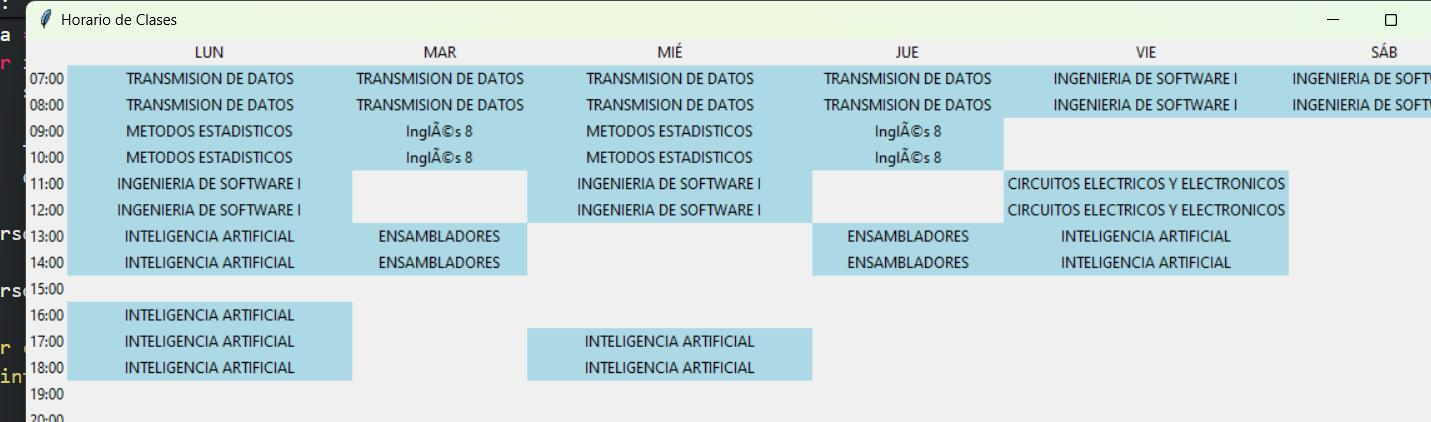
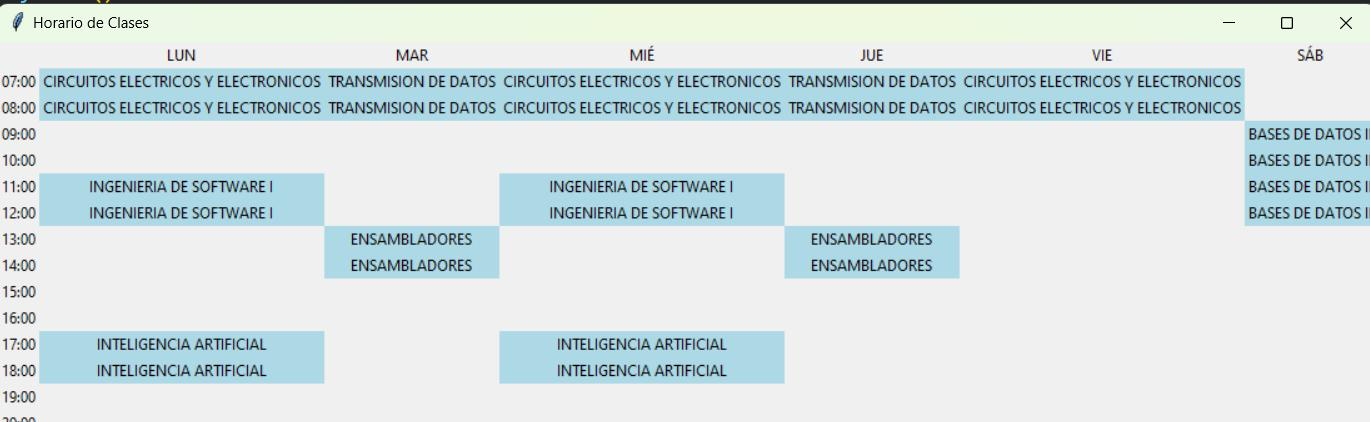
nuevos horarios

diff --git a/src/main.py b/src/main.py
@@ -8,7 +8,7 @@ from classes.InterfazGrafica import InterfazGrafica
 categorias = []
 
 def main():
-    reader = Reader('src/data/horarios.csv')
+    reader = Reader('src/data/horarios2.csv')
     reader.read()
     horarios = reader.getData()
     
@@ -43,7 +43,7 @@ def main():
 
 
     #Crear un txt con los horarios en un solo archivo
-    with open('src/data/horarios.txt', 'w') as file:
+    with open('src/data/horarios2.txt', 'w') as file:
         for i, horario in enumerate(horarios):
             file.write(f'Horario {i+1}\n{horario}\n\n')
     InterfazGrafica.run(horarios[4].getCursos())
